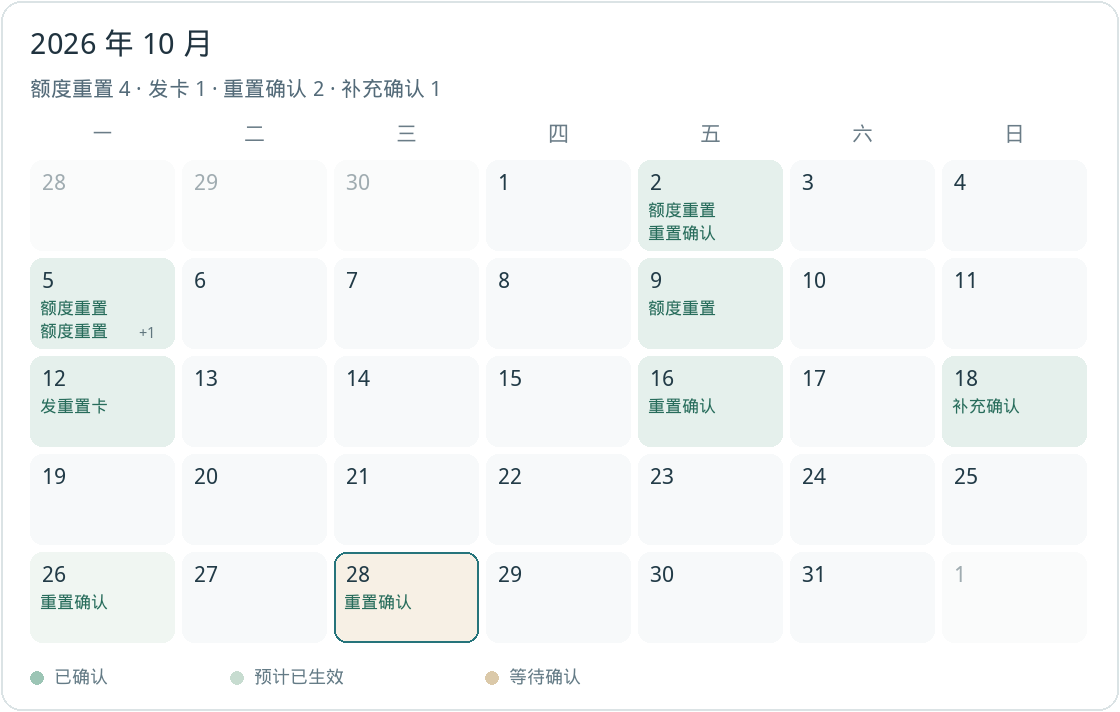
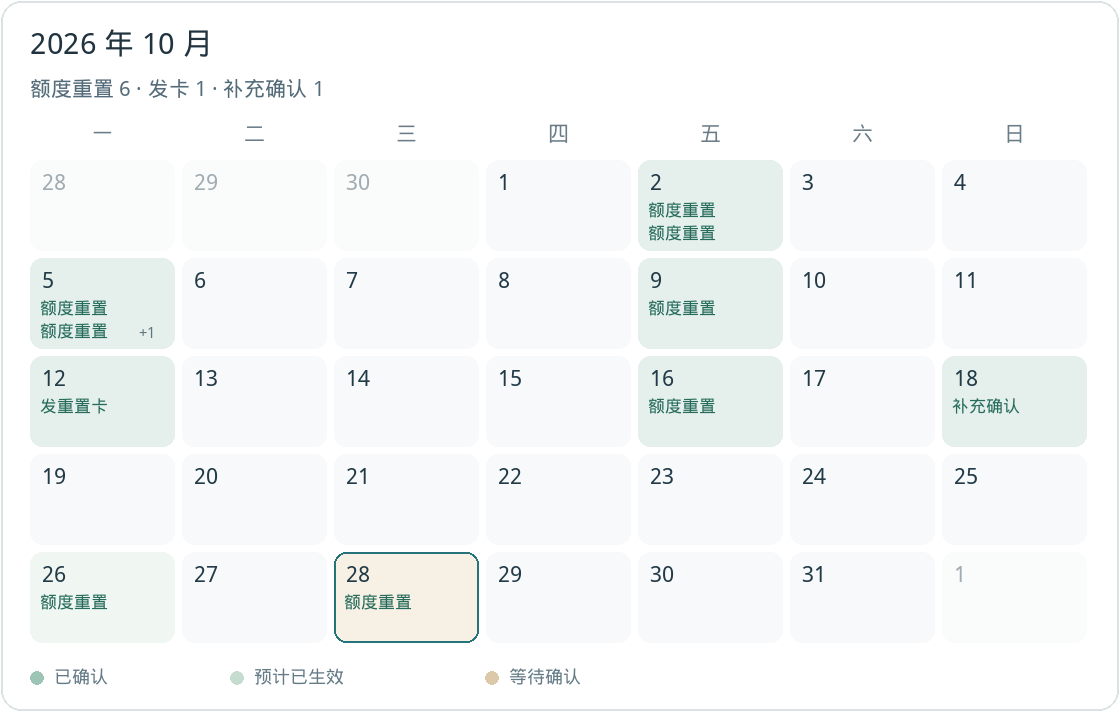
Label calendar cells as reset or credit, not an unspecified form.
reset_credit stays 发重置卡 and every other event is 额度重置. 补充确认
still applies only when the form was not explicit.

diff --git a/tests/test_calendar.py b/tests/test_calendar.py
@@ -94,12 +94,14 @@ class CalendarModelTest(unittest.TestCase):
         self.assertEqual(labels["card"]["label"], "发重置卡")
         self.assertEqual(labels["card"]["state"], "confirmed")
         self.assertEqual(labels["waiting"]["state"], "waiting")
-        self.assertEqual(labels["waiting"]["label"], "重置确认")
+        self.assertEqual(labels["waiting"]["label"], "额度重置")
+        self.assertEqual(labels["expected"]["label"], "额度重置")
         self.assertEqual(labels["expected"]["state"], "expected")
         self.assertEqual(model["days"]["2026-10-28"][0]["id"], "waiting")
         self.assertEqual(model["totals"]["发重置卡"], 1)
         self.assertEqual(model["totals"]["额度重置"], 0)
-        self.assertEqual(model["totals"]["重置确认"], 0)
+        self.assertNotIn("重置确认", model["totals"])
+        self.assertNotIn("重置确认", {item["label"] for item in labels.values()})
 
     def test_amendment_context_is_its_own_total(self):
         recent = {
@@ -125,7 +127,7 @@ class CalendarModelTest(unittest.TestCase):
         follow = next(item for items in model["days"].values() for item in items if item["id"] == "follow")
         self.assertEqual(follow["label"], "补充确认")
         self.assertEqual(model["totals"]["补充确认"], 1)
-        self.assertEqual(model["totals"]["重置确认"], 0)
+        self.assertNotIn("重置确认", {item["label"] for items in model["days"].values() for item in items})
 
     def test_explicit_direct_reset_is_not_an_estimate(self):
         recent = {
@@ -146,6 +148,53 @@ class CalendarModelTest(unittest.TestCase):
         self.assertEqual(model["days"]["2026-10-05"][0]["label"], "额度重置")
         self.assertEqual(model["days"]["2026-10-05"][0]["state"], "confirmed")
         self.assertNotIn("2026-10-01", model["days"])
+
+    def test_unspecified_form_is_still_a_reset_or_credit_label(self):
+        recent = {
+            "historyFrom": "2026-10-01T00:00:00.000+08:00",
+            "events": [
+                _event(
+                    "plain",
+                    confirmationBasis="source_post",
+                    confirmedAt="2026-10-08T00:00:00.000+08:00",
+                    occurredOn="2026-10-08",
+                    presentation={"kindExplicit": False, "status": "confirmed"},
+                ),
+                _event(
+                    "quiet-card",
+                    type="reset_credit",
+                    confirmationBasis="source_post",
+                    confirmedAt="2026-10-11T00:00:00.000+08:00",
+                    occurredOn="2026-10-11",
+                    presentation={"kindExplicit": False, "status": "confirmed"},
+                ),
+            ],
+        }
+        model = calendar_model(None, recent, NOW)
+        labels = {item["id"]: item["label"] for items in model["days"].values() for item in items}
+        self.assertEqual(labels["plain"], "额度重置")
+        self.assertEqual(labels["quiet-card"], "发重置卡")
+        self.assertEqual(model["totals"]["额度重置"], 1)
+        self.assertEqual(model["totals"]["发重置卡"], 1)
+
+    def test_explicit_reset_that_quotes_an_amendment_stays_a_reset(self):
+        recent = {
+            "historyFrom": "2026-10-01T00:00:00.000+08:00",
+            "events": [
+                _event("base", posts=[{"id": "amend-post", "stage": "补充说明"}]),
+                _event(
+                    "explicit",
+                    confirmationBasis="source_post",
+                    confirmedAt="2026-10-04T00:00:00.000+08:00",
+                    occurredOn="2026-10-04",
+                    presentation={"kindExplicit": True, "status": "confirmed"},
+                    posts=[{"id": "follow", "stage": "确认完成", "context": [{"id": "amend-post"}]}],
+                ),
+            ],
+        }
+        model = calendar_model(None, recent, NOW)
+        explicit = next(item for items in model["days"].values() for item in items if item["id"] == "explicit")
+        self.assertEqual(explicit["label"], "额度重置")
 
     def test_history_url_strips_recent(self):
         self.assertEqual(

diff --git a/src/tibo_reset_monitor/core/calendar.py b/src/tibo_reset_monitor/core/calendar.py
@@ -109,7 +109,7 @@ def calendar_model(history: dict[str, Any] | None, recent: dict[str, Any] | None
                 owners[str(post["id"])] = (event, post)
 
     days: dict[str, list[dict[str, str]]] = {}
-    totals = {"额度重置": 0, "发重置卡": 0, "重置确认": 0, "补充确认": 0}
+    totals = {"额度重置": 0, "发重置卡": 0, "补充确认": 0}
     for event in events.values():
         placed = _place_event(event, owners)
         if placed is None:
@@ -146,14 +146,12 @@ def _place_event(
         day = date.fromisoformat(str(raw_day)[:10]).isoformat()
     except (ValueError, TypeError):
         return None
+    event_type = event.get("type")
+    label = "发重置卡" if event_type == "reset_credit" else "额度重置"
+    # 补充确认 stays limited to events that were not an explicit reset or credit grant.
     explicit = presentation.get("kindExplicit") is True
-    if event.get("type") == "reset_credit" and explicit:
-        label = "发重置卡"
-    elif event.get("type") == "direct_reset" and explicit:
-        label = "额度重置"
-    else:
-        label = "重置确认"
-    if label == "重置确认" and _quotes_amendment(event, owners):
+    unspecified_form = not (explicit and event_type in ("reset_credit", "direct_reset"))
+    if unspecified_form and _quotes_amendment(event, owners):
         label = "补充确认"
     return day, label, state
 
@@ -218,7 +216,7 @@ def render_calendar_png(model: dict[str, Any], fonts: FontChoice | None = None) 
         draw.rounded_rectangle((1, 1, image.width - 2, image.height - 2), radius=20, outline="#dbe3e5", width=2)
         draw.text((margin, 25), f'{model["year"]} 年 {model["month"]} 月', font=face(30, True), fill="#20333f")
         totals = model["totals"]
-        summary = f'额度重置 {totals["额度重置"]} · 发卡 {totals["发重置卡"]} · 重置确认 {totals["重置确认"]}'
+        summary = f'额度重置 {totals["额度重置"]} · 发卡 {totals["发重置卡"]}'
         if totals["补充确认"]:
             summary += f' · 补充确认 {totals["补充确认"]}'
         draw.text((margin, 76), summary, font=face(21), fill="#546b79")

diff --git a/README.en.md b/README.en.md
@@ -112,7 +112,7 @@ The caption is:
 
 A manual text uses the same shell: title `手动提醒`, caption line `手动发送`, and the calendar when it can be drawn.
 
-Calendar marks come from the full snapshot `https://aihot.news/api/v1/codex-resets` (the same `CodexResetsResponse` as `recent`; OpenAPI operation `codexResets`) overlaid with the recent feed. The full snapshot is fetched at most every 6 hours by default, also when the Beijing month changes, and never more often than once per 10 minutes. A failed history fetch does not block the notification and does not erase a cached copy. The grid then uses the recent feed alone. A day is confirmed from `occurredOn` / `confirmedAt`. An estimate is not drawn as a confirmation. The bottom of the image is only the three color swatches: 已确认, 预计已生效, and 等待确认.
+Calendar marks come from the full snapshot `https://aihot.news/api/v1/codex-resets` (the same `CodexResetsResponse` as `recent`; OpenAPI operation `codexResets`) overlaid with the recent feed. The full snapshot is fetched at most every 6 hours by default, also when the Beijing month changes, and never more often than once per 10 minutes. A failed history fetch does not block the notification and does not erase a cached copy. The grid then uses the recent feed alone. A day is confirmed from `occurredOn` / `confirmedAt`. An estimate is not drawn as a confirmation. A cell says 发重置卡 when the event type is `reset_credit`, and 额度重置 otherwise. 补充确认 is unchanged: it is only used when the form was not explicit and the post quotes another event's 补充说明. The bottom of the image is only the three color swatches: 已确认, 预计已生效, and 等待确认.
 
 Drawing is optional:
 
